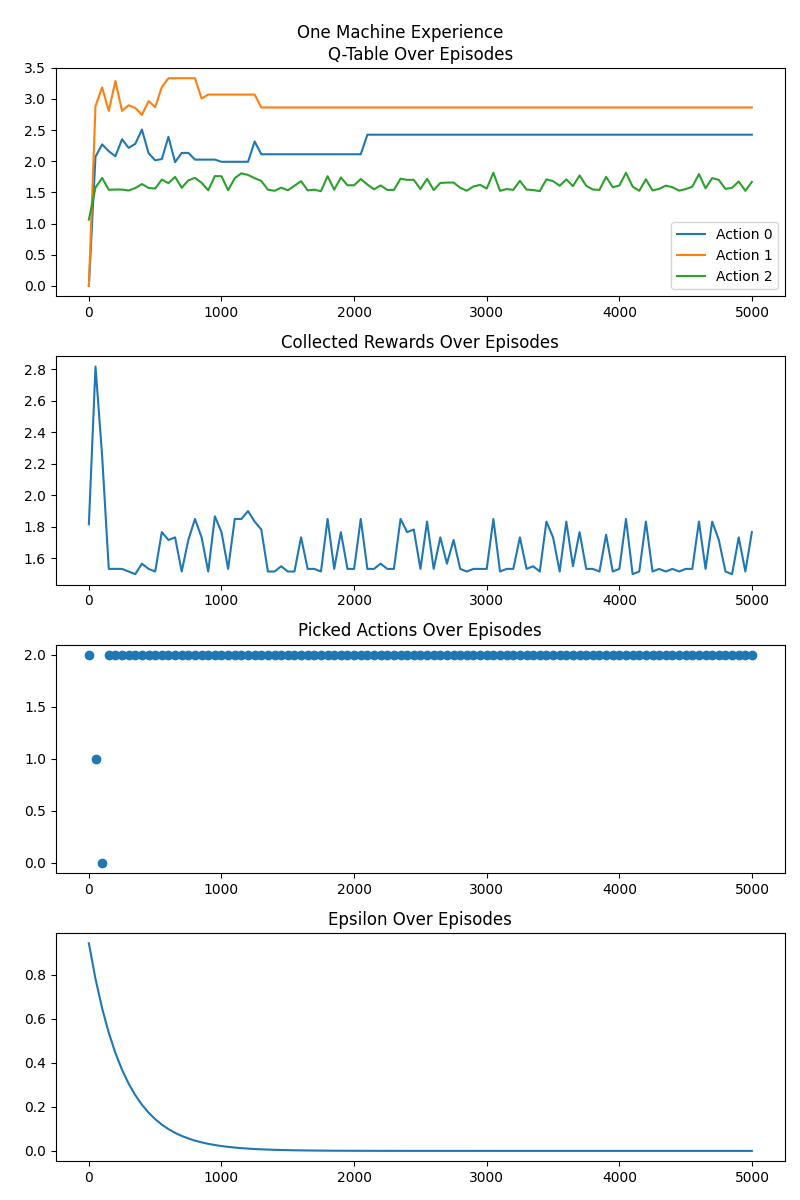
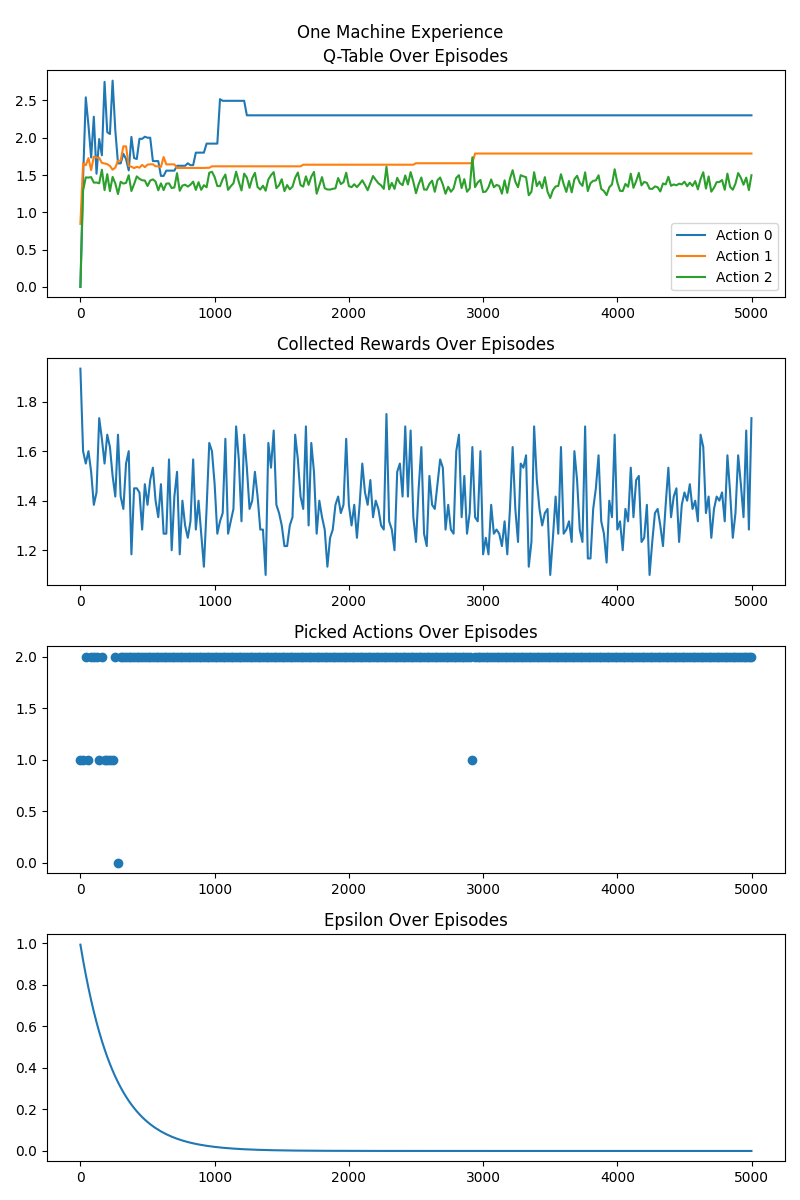
Training of 5K Episodes

diff --git a/README.md b/README.md
@@ -5,22 +5,32 @@
 This project involves the development of a reinforcement learning environment where machine and human agents learn the optimal path to get from an origin to a destination.
 The implementation includes several components, as depicted in the UML Class and Sequence Diagrams [HERE](https://miro.com/app/board/uXjVN4vGqSI=/?share_link_id=316593087566).
 
+## Training results
+
+### Number of agents
 1200 agents ~ around 600 machines and 600 humans (random)
+### Training episodes
+5000 Episodes
+### Training duration
+02 hours, 17 minutes, 04 seconds
+### Visualizing agents
+- Agent #159 from kind h with OD: 1-0 at start time 1768
+- Agent #1071 from kind m with OD: 0-1 at start time 2394
 
 
 ## Collected Mean Rewards(in minutes):
 ![](readme_plots/rewards.png)
 
 
-## Simulation Duration (timesteps):
+## Simulation Timesteps:
 ![](readme_plots/simulation_length.png)
 
 
-## One Random Human's Experience
+## ID: 159
 ![](readme_plots/one_human.png)
 
 
-## One Random Machine's Experience
+## ID:1071
 ![](readme_plots/one_machine.png)
 
 
@@ -32,19 +42,19 @@ The implementation includes several components, as depicted in the UML Class and
 
 | Origin | Destination | Index | FF Time |
 |--------|-------------|-------|---------|
-|   0    |      0      |   0   |  4.993  |
-|   0    |      0      |   1   |  7.449  |
-|   0    |      0      |   2   |  3.814  |
+|   0    |      0      |   0   |  2.084  |
+|   0    |      0      |   1   |  1.977  |
+|   0    |      0      |   2   |  3.325  |
 |  ----  |     ----    |  ---- |   ----  |
-|   0    |      1      |   0   |  2.804  |
-|   0    |      1      |   1   |  6.980  |
-|   0    |      1      |   2   |  4.026  |
+|   0    |      1      |   0   |  0.779  |
+|   0    |      1      |   1   |  1.118  |
+|   0    |      1      |   2   |  0.768  |
 |  ----  |     ----    |  ---- |   ----  |
-|   1    |      0      |   0   |  3.310  |
-|   1    |      0      |   1   |  2.663  |
-|   1    |      0      |   2   |  2.475  |
+|   1    |      0      |   0   |  0.740  |
+|   1    |      0      |   1   |  0.687  |
+|   1    |      0      |   2   |  4.705  |
 |  ----  |     ----    |  ---- |   ----  |
-|   1    |      1      |   0   |  7.279  |
-|   1    |      1      |   1   |  8.035  |
-|   1    |      1      |   2   |  6.925  |
+|   1    |      1      |   0   |  2.035  |
+|   1    |      1      |   1   |  3.847  |
+|   1    |      1      |   2   |  2.232  |
 |  ----  |     ----    |  ---- |   ----  |
